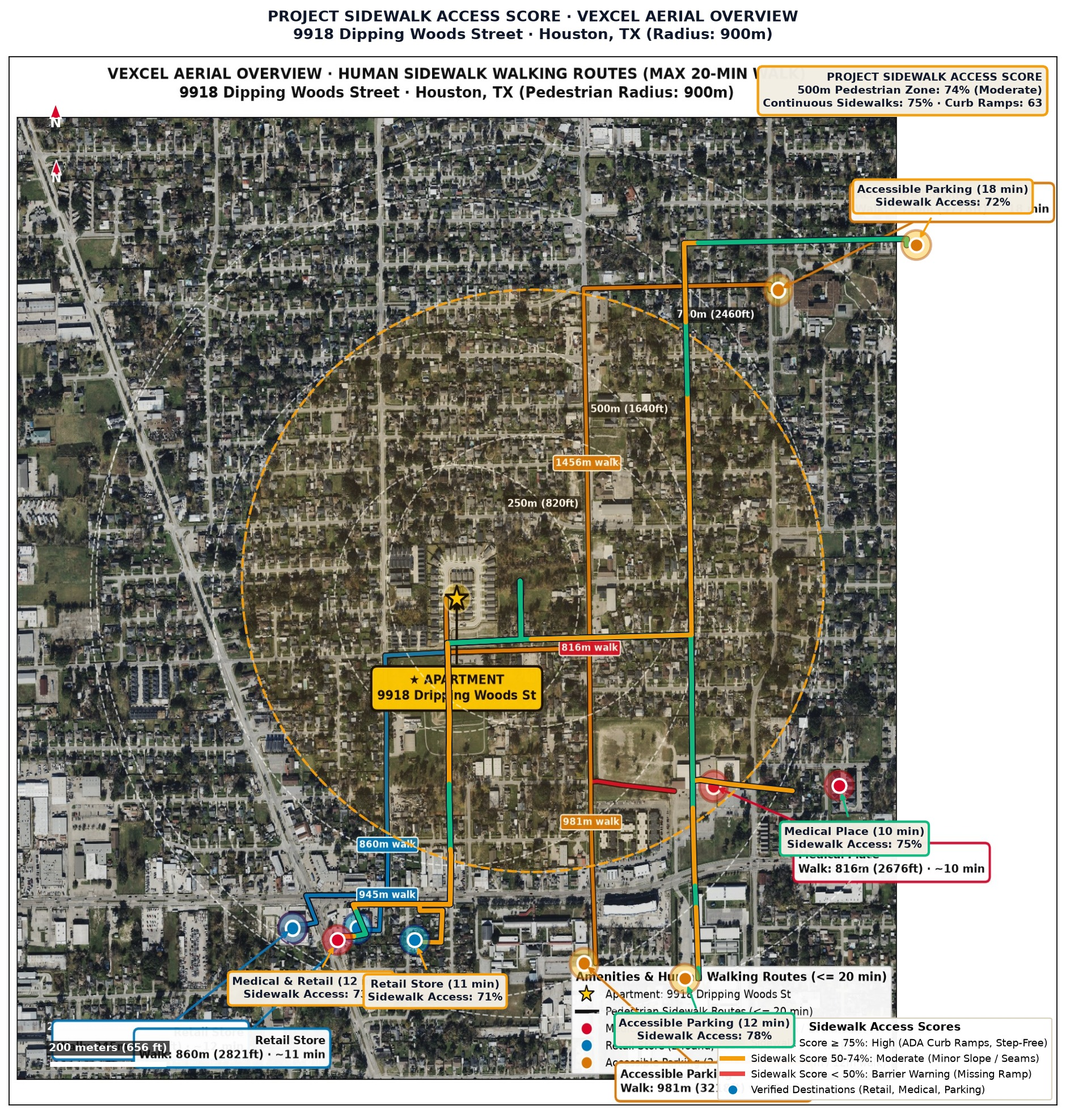
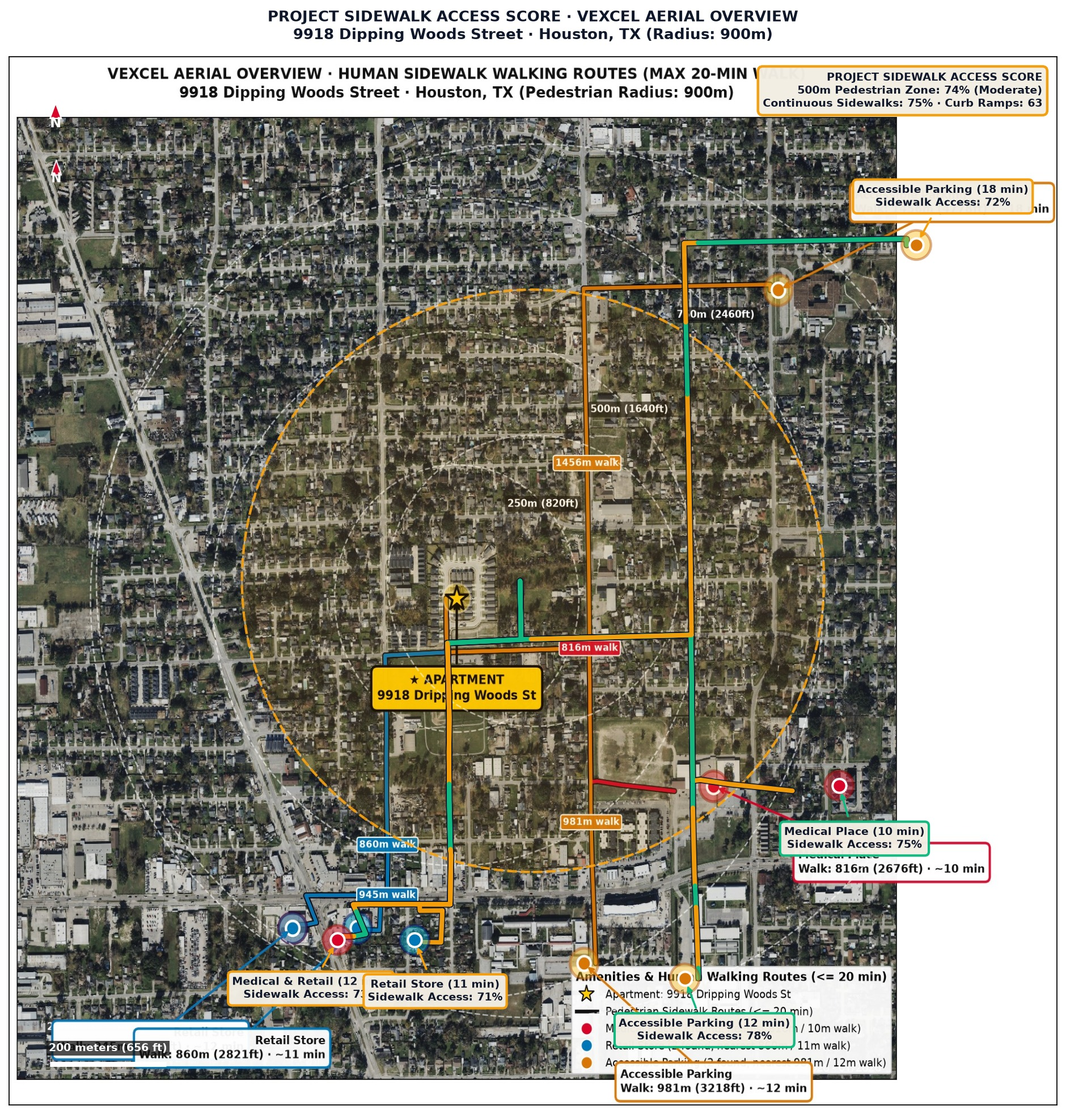
Remove sidewalk access rating definition legend bar from aerial maps

Changed region(s): [[0.6787, 0.9007, 0.9872, 0.9939]]

diff --git a/generate_accessible_route.py b/generate_accessible_route.py
@@ -456,7 +456,6 @@ def generate_overview_for_listing(prop_info, output_dir=None):
         (radius_m - 380, radius_m - 170, radius_m - 15, radius_m - 15),
         (-radius_m + 15, radius_m - 150, -radius_m + 150, radius_m - 15),
         (-radius_m + 15, -radius_m + 15, -radius_m + 320, -radius_m + 110),
-        (radius_m - 480, -radius_m + 15, radius_m - 15, -radius_m + 200),
         (-90, -90, 90, 90),
     ]
 
@@ -560,20 +559,6 @@ def generate_overview_for_listing(prop_info, output_dir=None):
         ha="right", va="top", zorder=25,
         bbox=dict(boxstyle="round,pad=0.45", facecolor="#F3EEE4", edgecolor=zone_color, lw=2.0, alpha=0.98)
     )
-
-    # Condensed Legend in lower right corner
-    legend_handles = [
-        plt.Line2D([0], [0], color=COLOR_HIGH, lw=3.6, ls="-", label="Sidewalk Score ≥ 75%: High (ADA Curb Ramps, Step-Free)"),
-        plt.Line2D([0], [0], color=COLOR_MODERATE, lw=3.6, ls="-", label="Sidewalk Score 50-74%: Moderate (Minor Slope / Seams)"),
-        plt.Line2D([0], [0], color=COLOR_BARRIER, lw=3.6, ls="-", label="Sidewalk Score < 50%: Barrier Warning (Missing Ramp / Obstacle)"),
-        plt.Line2D([0], [0], marker="o", color="#D90429", markeredgecolor="#FFFFFF", markersize=8, ls="", label="Medical Facilities"),
-        plt.Line2D([0], [0], marker="o", color="#0077B6", markeredgecolor="#FFFFFF", markersize=8, ls="", label="Retail / Grocery"),
-        plt.Line2D([0], [0], marker="o", color="#D97706", markeredgecolor="#FFFFFF", markersize=8, ls="", label="Accessible Parking"),
-    ]
-
-    leg = ax.legend(handles=legend_handles, loc="lower right", framealpha=0.96, fontsize=8.2,
-                    title="Continuous Sidewalks & Amenities", title_fontsize=8.8, edgecolor="#CBD5E1")
-    leg.get_title().set_fontweight("bold")
 
     # Scale bar in lower left
     scale_len = 200

diff --git a/render_sidewalk_overviews.py b/render_sidewalk_overviews.py
@@ -232,8 +232,6 @@ def render_property(prop_cfg, root_dir: Path):
         (-radius_m + 15, radius_m - 150, -radius_m + 150, radius_m - 15),
         # Bottom-Left Scale Bar
         (-radius_m + 15, -radius_m + 15, -radius_m + 320, -radius_m + 110),
-        # Bottom-Right Legend
-        (radius_m - 480, -radius_m + 15, radius_m - 15, -radius_m + 200),
         # Central Apartment Location Clearance
         (-90, -90, 90, 90),
     ]
@@ -347,18 +345,6 @@ def render_property(prop_cfg, root_dir: Path):
         ha="right", va="top", zorder=25,
         bbox=dict(boxstyle="round,pad=0.45", facecolor="#F3EEE4", edgecolor=zone_color, lw=2.0, alpha=0.98)
     )
-
-    # Condensed Legend (Bottom Right)
-    legend_handles = [
-        plt.Line2D([0], [0], color=COLOR_HIGH, lw=3.6, ls="-", label="Sidewalk Score ≥ 75%: High (ADA Curb Ramps, Step-Free)"),
-        plt.Line2D([0], [0], color=COLOR_MODERATE, lw=3.6, ls="-", label="Sidewalk Score 50-74%: Moderate (Minor Slope / Seams)"),
-        plt.Line2D([0], [0], color=COLOR_BARRIER, lw=3.6, ls="-", label="Sidewalk Score < 50%: Barrier Warning (Missing Ramp)"),
-        plt.Line2D([0], [0], marker="o", color="#0077B6", markeredgecolor="#FFFFFF", markersize=8, ls="", label="Verified Destinations (Retail, Medical, Parking)"),
-    ]
-
-    leg = ax.legend(handles=legend_handles, loc="lower right", framealpha=0.96, fontsize=8.2,
-                    title="Sidewalk Access Scores", title_fontsize=8.8, edgecolor="#D9D0C0")
-    leg.get_title().set_fontweight("bold")
 
     # Scale bar in lower left
     scale_len = 200
